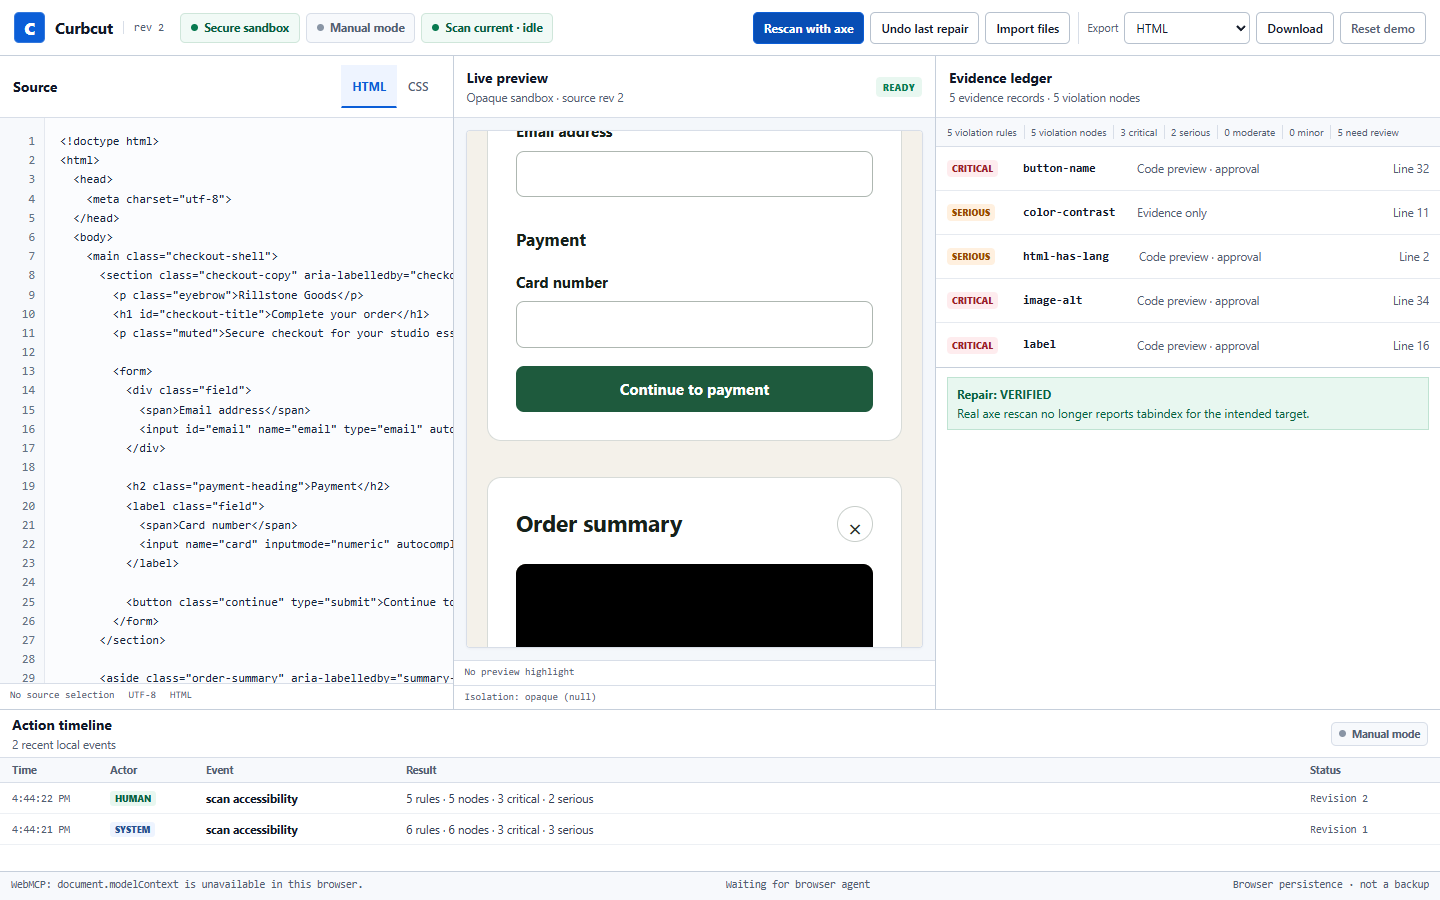
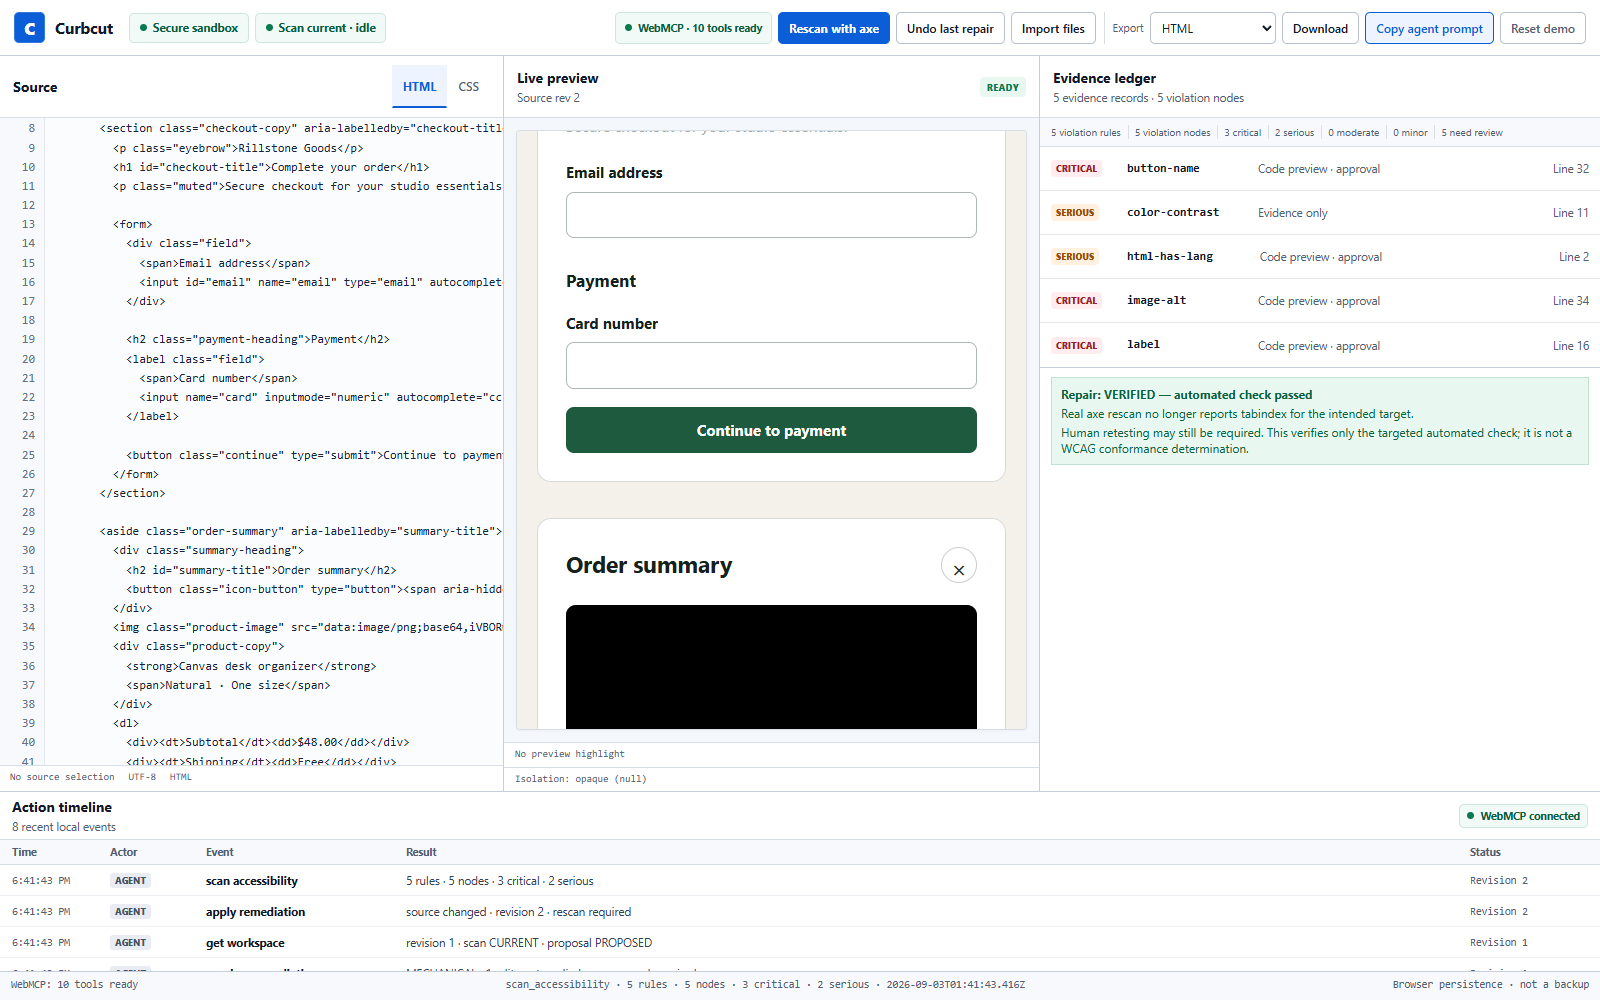
docs: refresh final release evidence

diff --git a/docs/SUBMISSION_DRAFT.md b/docs/SUBMISSION_DRAFT.md
@@ -1,6 +1,6 @@
 # Curbcut — Devpost submission draft
 
-Status: production release candidate verified; final screenshot recapture, owner video upload, and Devpost submission remain pending.
+Status: production release candidate and final screenshots verified; owner video upload and Devpost submission remain pending.
 
 ## Submission fields
 
@@ -8,7 +8,7 @@ Status: production release candidate verified; final screenshot recapture, owner
 
 **Tagline:** A browser-native accessibility repair workbench where a developer and browser agent safely repair the same live HTML/CSS artifact.
 
-**Live application:** <https://curbcut-one.vercel.app> — application commit `7a95ee9`, Vercel deployment `dpl_2S1fKA8yaBpWLnYjZaaYkuDZgf8Y`.
+**Live application:** <https://curbcut-one.vercel.app> — application commit `21838d8`, Vercel deployment `dpl_Ae3dg1396JPcP2nmygbNxNVPSnha`.
 
 **Public repository:** <https://github.com/nbobby07/curbcut>
 
@@ -62,27 +62,27 @@ Curbcut does not claim automated WCAG compliance. axe-core covers only part of a
 
 ### Evidence
 
-The frozen source gate passes 86/86 Vitest checks across nine files, 26/26 Playwright checks, and a validated WebMCP corpus of 36 trajectory cases across twelve intents and all ten tools. Coverage includes all five repair families, proposal-readiness and concurrent-mutation guards, reliable pristine-demo reset/persistence, the real offscreen mobile iframe/requestAnimationFrame scan regression and zero horizontal overflow, direct mechanical Apply, contextual approval, non-mutating rejection, the opaque-origin boundary, CSP/network/script isolation, parse5-to-DOM mapping, real axe scans, WebMCP registration and state effects, Apply/rescan, Undo/rescan, local import, canonical export, reload, a self-scan of Curbcut's own UI, and exact agreement between registered tool schemas and the eval snapshot.
+The frozen source gate passes 88/88 Vitest checks across ten files, 30/30 Playwright checks, and a validated WebMCP corpus of 36 trajectory cases across twelve intents and all ten tools. Coverage includes all five repair families, proposal-readiness and concurrent-mutation guards, reliable pristine-demo reset/persistence, honest scan/highlight failure states, exact source-range reveal and keyboard focus restoration, mobile/tablet/medium-width regressions, direct mechanical Apply, contextual approval, non-mutating rejection, the opaque-origin boundary, CSP/network/script isolation, parse5-to-DOM mapping, real axe scans, WebMCP registration and state effects, Apply/rescan, Undo/rescan, local import, canonical export, reload, a self-scan of Curbcut's own UI, and exact agreement between registered tool schemas and the eval snapshot.
 
 Native Chrome through Chrome DevTools MCP 1.8 passed the production ten-tool workflow, including reload rediscovery, with zero console errors. The Codex in-app browser independently passed the updated production scan, `impact:"high"` listing, and mapped inspect calls with source selection, preview highlight, timeline activity, and zero console errors on August 28, 2026. Production response headers passed for CSP, `Permissions-Policy: tools=(self)`, Origin-Agent-Cluster, no-referrer, nosniff, and HSTS. Impeccable review returned **SHIP** and the release code audit returned **CLEAR**.
 
 Curbcut is not keyed to its checkout fixture. A Playwright regression imports an unrelated local profile form and stylesheet, runs axe in the same opaque preview, and receives exactly the dynamic `label` and `tabindex` findings.
 
-The OpenAI `gpt-5.4-mini-2026-03-17` trajectory run produced **69/72 operationally correct trajectories with zero approval-boundary violations and zero infrastructure errors**. For full transparency, strict raw scoring was 214/253 passing rows (84.6%) and 59/72 exact trajectories; ten additional trajectories differed only by harmless bounded state or verification reads. The three genuine misses were two malformed copied issue IDs and one wrong rejection reason. The key was ephemeral and is not a runtime dependency. Full raw results and classifications are preserved in `docs/M7_REPORT.md`. Known non-blockers are the roughly 307.06 KB gzip Vite chunk warning (axe-core dominates) and scan-cap lower-bound semantics: capped results say `≥` and cannot falsely mark Apply or Undo verified.
+The OpenAI `gpt-5.4-mini-2026-03-17` trajectory run produced **69/72 operationally correct trajectories with zero approval-boundary violations and zero infrastructure errors**. For full transparency, strict raw scoring was 214/253 passing rows (84.6%) and 59/72 exact trajectories; ten additional trajectories differed only by harmless bounded state or verification reads. The three genuine misses were two malformed copied issue IDs and one wrong rejection reason. The key was ephemeral and is not a runtime dependency. Full raw results and classifications are preserved in `docs/M7_REPORT.md`. Known non-blockers are the roughly 307.74 KB gzip Vite chunk warning (axe-core dominates) and scan-cap lower-bound semantics: capped results say `≥` and cannot falsely mark Apply or Undo verified.
 
-## Screenshots — stale; recapture before submission
+## Production screenshots
 
-> **Do not submit these five images.** They were captured on August 28 before the final UI cleanup and are retained only as historical references. Recapture every state below from the frozen final deployment.
+Captured September 2 from the frozen final deployment.
 
-![Stale reference — scanned production workspace](./curbcut-scanned-workspace.png)
+![Scanned production workspace](./curbcut-scanned-workspace.png)
 
-![Stale reference — mechanical remediation preview](./curbcut-mechanical-preview.png)
+![Mechanical remediation preview](./curbcut-mechanical-preview.png)
 
-![Stale reference — verified mechanical repair](./curbcut-verified-mechanical.png)
+![Verified mechanical repair](./curbcut-verified-mechanical.png)
 
-![Stale reference — contextual remediation awaiting approval](./curbcut-remediation-preview.png)
+![Contextual remediation awaiting approval](./curbcut-remediation-preview.png)
 
-![Stale reference — responsive medium-width workspace](./curbcut-medium-workspace.png)
+![Responsive medium-width workspace](./curbcut-medium-workspace.png)
 
 ## Judge testing instructions
 
@@ -104,11 +104,11 @@ The OpenAI `gpt-5.4-mini-2026-03-17` trajectory run produced **69/72 operational
 - [ ] Verify the video and audio from a signed-out browser.
 - [ ] Show real tool discovery/calls, not a simulated invocation.
 - [ ] Show scan evidence, synchronized source/preview focus, direct mechanical Apply, contextual visible approval, rescan, semantic review, and summary/export or Undo.
-- [ ] Recapture the scanned workspace from the frozen final deployment.
-- [ ] Recapture the mechanical diff and `RENDERING → READY → Apply` state from the frozen final deployment.
-- [ ] Recapture the contextual proposed diff/render/approval state from the frozen final deployment.
-- [ ] Recapture a distinct verified-result/timeline image from the frozen final deployment.
-- [ ] Recapture the responsive medium-width workspace from the frozen final deployment.
+- [x] Recapture the scanned workspace from the frozen final deployment.
+- [x] Recapture the mechanical diff and `READY → Apply` state from the frozen final deployment.
+- [x] Recapture the contextual proposed diff/render/approval state from the frozen final deployment.
+- [x] Recapture a distinct verified-result/timeline image from the frozen final deployment.
+- [x] Recapture the responsive medium-width workspace from the frozen final deployment.
 - [ ] Use narration only or properly licensed audio; do not add third-party trademarks or copyrighted music.
 
 ## Owner task — practitioner review (not submission evidence until completed)
@@ -124,8 +124,8 @@ The OpenAI `gpt-5.4-mini-2026-03-17` trajectory run produced **69/72 operational
 - [ ] Join/registration status is confirmed in the submitting Devpost account.
 - [x] Frozen current-source build is live in a clean target-client session and remains available without payment or credentials.
 - [x] GitHub repository is public; root license is detected; About description and homepage are set.
-- [x] `npm test` (86/86), all 26 Playwright checks, `npm run build`, and the measured 72-run OpenAI WebMCP corpus are complete with documented results.
+- [x] `npm test` (88/88), all 30 Playwright checks, `npm run build`, and the measured 72-run OpenAI WebMCP corpus are complete with documented results.
 - [ ] Final client, prompt, limitations, and measured evidence agree across README, reports, video, and Devpost text after the video is recorded.
-- [ ] Every public screenshot and the final video depict the frozen deployment; both screenshots and video remain pending.
+- [ ] Every public screenshot and the final video depict the frozen deployment; screenshots pass, video remains pending.
 - [ ] All URLs work from a signed-out browser.
 - [ ] Submit before September 3, 2026 at 1:00 PM PT; use deadline morning only as recovery buffer.

diff --git a/docs/IMPLEMENTATION_PLAN.md b/docs/IMPLEMENTATION_PLAN.md
@@ -1,8 +1,8 @@
 # Curbcut — Implementation Plan
 
-Status: M1–M7 and the M8 production release gate are complete; final screenshot recapture, owner video, and Devpost submission remain pending
+Status: M1–M7, the M8 production release gate, and final screenshots are complete; owner video and Devpost submission remain pending
 Baseline: the successful Spike A and Spike B code in this repository  
-Target: application commit `7a95ee9` deployed and verified at <https://curbcut-one.vercel.app>; submit before September 3, 2026 at 1:00 PM PT
+Target: application commit `21838d8` deployed and verified at <https://curbcut-one.vercel.app>; submit before September 3, 2026 at 1:00 PM PT
 
 ## 1. Technical baseline and governing references
 
@@ -859,7 +859,7 @@ Acceptance:
 - no unapproved contextual Apply or invented semantic value observed;
 - fixture results stay exact.
 
-Recorded release evidence: 36 deterministic trajectory cases across twelve intents and ten tools, 86/86 passing Vitest checks across nine files, 26/26 passing Playwright checks, and a 72-run OpenAI model evaluation with 214/253 strict passing rows, 59/72 exact trajectories, 69/72 operationally correct trajectories, and zero errors. Browser coverage includes reliable pristine-demo reset/persistence, the real offscreen mobile iframe/requestAnimationFrame scan regression, zero horizontal overflow, all five families, authority and proposal-readiness gates, isolation, mapping, export, reload, judge-prompt copy, persistent WebMCP readiness, and schema drift.
+Recorded release evidence: 36 deterministic trajectory cases across twelve intents and ten tools, 88/88 passing Vitest checks across ten files, 30/30 passing Playwright checks, and a 72-run OpenAI model evaluation with 214/253 strict passing rows, 59/72 exact trajectories, 69/72 operationally correct trajectories, and zero errors. Browser coverage includes reliable pristine-demo reset/persistence, scan/highlight failure-state integrity, exact source-range reveal and focus restoration, mobile/tablet/medium-width regressions, all five families, authority and proposal-readiness gates, isolation, mapping, export, reload, judge-prompt copy, persistent WebMCP readiness, and schema drift.
 
 Fallback/cut: reduce paraphrase count only after covering every intent once. Never cut security, fixture, undo, contextual approval, or primary workflow gates.
 
@@ -867,10 +867,10 @@ Fallback/cut: reduce paraphrase count only after covering every intent once. Nev
 
 Tasks:
 
-- [x] Deploy application commit `7a95ee9` with Vercel CLI 59.11.1 as `dpl_2S1fKA8yaBpWLnYjZaaYkuDZgf8Y`.
+- [x] Deploy application commit `21838d8` with Vercel CLI 59.11.1 as `dpl_Ae3dg1396JPcP2nmygbNxNVPSnha`.
 - [x] Verify the public URL, reload rediscovery, production security headers, tool discovery, and the complete native-Chrome ten-tool workflow.
 - [x] Verify production scan/list/inspect source selection and preview highlighting in the Codex in-app browser, with zero console errors.
-- [ ] Recapture final production workflow screenshots after UI cleanup; the five August 28 images are stale references only.
+- [x] Recapture five final production workflow screenshots from the frozen September 2 deployment.
 - [ ] Record and upload the under-three-minute narrated video.
 - [ ] Submit the final Devpost entry.
 
@@ -878,7 +878,7 @@ Acceptance:
 
 - [x] Clean-session deployed native-Chrome demo completes all ten tools, including Apply/rescan, Undo/rescan, export, reload, and zero console errors.
 - [x] The frozen current-source deployment is authenticated, persistent, and publicly available at <https://curbcut-one.vercel.app>.
-- [ ] Exact URL, clients, prompt, limitations, final screenshots, and verification evidence agree; final screenshot recapture remains pending.
+- [x] Exact URL, clients, prompt, limitations, final screenshots, and verification evidence agree.
 - [ ] Video/storyboard is under three minutes and first proposal appears by 15 seconds.
 
 Fallback/cut: September 2 is feature freeze. Cut nice-to-haves and incomplete families; do not add infrastructure. September 3 morning is submission/recovery buffer only.
@@ -929,4 +929,4 @@ Immediate no-go conditions during release verification:
 
 Recommendation: the production release gate is complete. **PROCEED TO SUBMISSION without adding product scope.** The OpenAI model-backed eval is complete with 214/253 strict passing rows (84.6%), 59/72 exact trajectories, 69/72 operationally correct trajectories, three genuine argument misses, and zero errors. Remaining work is owner-only: record/host the under-three-minute video and submit Devpost.
 
-Known non-blockers: the Vite production build reports a roughly 307.06 KB gzip chunk because axe-core dominates the bundle; scan security caps expose lower-bound counts and produce inconclusive verification rather than a false pass. Impeccable review returned **SHIP** and the release code audit returned **CLEAR**.
+Known non-blockers: the Vite production build reports a roughly 307.74 KB gzip chunk because axe-core dominates the bundle; scan security caps expose lower-bound counts and produce inconclusive verification rather than a false pass. Impeccable review returned **SHIP** and the release code audit returned **CLEAR**.

diff --git a/README.md b/README.md
@@ -2,7 +2,7 @@
 
 [Live production release candidate](https://curbcut-one.vercel.app) · [Source code](https://github.com/nbobby07/curbcut) · [MIT license](./LICENSE)
 
-Release status: application commit `7a95ee9` is deployed and verified at the public URL as Vercel deployment `dpl_2S1fKA8yaBpWLnYjZaaYkuDZgf8Y`. Automated, OpenAI model-backed, and target-client release gates are recorded. The remaining owner tasks are final screenshot recapture, the narrated video, and Devpost submission.
+Release status: application commit `21838d8` is deployed and verified at the public URL as Vercel deployment `dpl_Ae3dg1396JPcP2nmygbNxNVPSnha`. Automated, OpenAI model-backed, target-client, and production-screenshot release gates are recorded. The remaining owner tasks are the narrated video and Devpost submission.
 
 Curbcut is a local-first, browser-native accessibility repair workbench for editable static HTML and CSS. A frontend developer and an external browser agent inspect and repair the same live artifact through WebMCP: the agent may apply exact mechanical patches after showing them, while the developer retains semantic and visual judgment.
 
@@ -121,9 +121,9 @@ npm run test:e2e
 npm run build
 ```
 
-Release verification passed with 86/86 Vitest checks across nine files, 26/26 Playwright checks, a production Vite build, and a validated WebMCP corpus of 36 cases across twelve intents and all ten tools. The OpenAI `gpt-5.4-mini-2026-03-17` run produced 69/72 operationally correct trajectories with zero approval-boundary violations and zero infrastructure errors. For full transparency, strict raw scoring was 214/253 passing rows (84.6%) and 59/72 exact trajectories; the three genuine misses were two malformed copied issue IDs and one wrong rejection reason. Native Chrome completed the production ten-tool workflow—including proposal readiness, mechanical Apply/rescan, contextual rejection, export, Undo/rescan, reload rediscovery, and zero console errors. The Codex in-app browser independently passed production discovery of all ten tools, a fresh scan/list/inspect journey, exact source mapping, real iframe highlight, timeline activity, and zero console errors. Production response headers passed for CSP, `Permissions-Policy: tools=(self)`, Origin-Agent-Cluster, no-referrer, nosniff, and HSTS. See the [M7 release report](./docs/M7_REPORT.md) and [August 27 M4–M6 verification](./docs/M4_REPORT.md).
+Release verification passed with 88/88 Vitest checks across ten files, 30/30 Playwright checks, a production Vite build, and a validated WebMCP corpus of 36 cases across twelve intents and all ten tools. The OpenAI `gpt-5.4-mini-2026-03-17` run produced 69/72 operationally correct trajectories with zero approval-boundary violations and zero infrastructure errors. For full transparency, strict raw scoring was 214/253 passing rows (84.6%) and 59/72 exact trajectories; the three genuine misses were two malformed copied issue IDs and one wrong rejection reason. Native Chrome completed the production ten-tool workflow—including proposal readiness, mechanical Apply/rescan, contextual rejection, export, Undo/rescan, reload rediscovery, and zero console errors. The Codex in-app browser independently passed production discovery of all ten tools, a fresh scan/list/inspect journey, exact source mapping, real iframe highlight, timeline activity, and zero console errors. Production response headers passed for CSP, `Permissions-Policy: tools=(self)`, Origin-Agent-Cluster, no-referrer, nosniff, and HSTS. See the [M7 release report](./docs/M7_REPORT.md) and [August 27 M4–M6 verification](./docs/M4_REPORT.md).
 
-The deterministic browser/schema suites and measured OpenAI trajectory run are complementary release evidence; model evals do not replace live UI verification. The API key was ephemeral and is not a runtime dependency. The production build retains a non-blocking Vite chunk warning at about 307.06 KB gzip because axe-core dominates the bundle. Bounded scan responses explicitly report truncation and lower-bound (`≥`) counts when security caps are reached, so a capped result cannot falsely claim verification.
+The deterministic browser/schema suites and measured OpenAI trajectory run are complementary release evidence; model evals do not replace live UI verification. The API key was ephemeral and is not a runtime dependency. The production build retains a non-blocking Vite chunk warning at about 307.74 KB gzip because axe-core dominates the bundle. Bounded scan responses explicitly report truncation and lower-bound (`≥`) counts when security caps are reached, so a capped result cannot falsely claim verification.
 
 ## Current limitations
 

diff --git a/docs/PRODUCT_REQUIREMENTS.md b/docs/PRODUCT_REQUIREMENTS.md
@@ -1,6 +1,6 @@
 # Curbcut — Product Requirements
 
-Status: MVP implementation, production freeze, and target-client verification complete; final screenshot recapture, owner video, and Devpost submission remain pending
+Status: MVP implementation, production freeze, target-client verification, and final screenshots complete; owner video and Devpost submission remain pending
 Planning date: August 26, 2026  
 Hackathon deadline: September 3, 2026 at 1:00 PM PT
 
@@ -25,7 +25,7 @@ The product extends, rather than replaces, the successful spike architecture:
 - Replace the spike's same-origin iframe with an opaque-origin sandbox and a validated `postMessage` bridge.
 - Register a stable tool set once. The spike observed a transient tool-list update during sequential registration, so the MVP will not dynamically add and remove tools as state changes.
 - Connect WebMCP to the real product architecture early: by the end of M2, `scan_accessibility`, `list_issues`, and `inspect_issue` must operate the real sandbox, axe results, React store, source map, source selection, and preview highlight. The complete ten-tool workflow remains M4 scope.
-- Maintain a persistent authenticated Vercel deployment from M1/M2 onward. The final application commit, `7a95ee9`, was built, deployed, and verified at <https://curbcut-one.vercel.app> as Vercel deployment `dpl_2S1fKA8yaBpWLnYjZaaYkuDZgf8Y`.
+- Maintain a persistent authenticated Vercel deployment from M1/M2 onward. The final application commit, `21838d8`, was built, deployed, and verified at <https://curbcut-one.vercel.app> as Vercel deployment `dpl_Ae3dg1396JPcP2nmygbNxNVPSnha`.
 
 ## 2. Audience and job to be done
 
@@ -573,6 +573,6 @@ The MVP is done only when a fresh deployed session can:
 11. complete the primary multi-tool browser-agent prompt on the supported client;
 12. keep Curbcut itself keyboard-usable and free of known critical/serious axe violations.
 
-Release evidence recorded August 28, 2026: 85/85 Vitest checks across eight files, 25/25 Playwright checks, 36 validated WebMCP trajectory cases across twelve intents and ten tools, a 72-run OpenAI model evaluation with 214/253 strict passing rows (84.6%), 59/72 exact trajectories, 69/72 operationally correct trajectories, and zero infrastructure errors, a complete native-Chrome production ten-tool journey with reload rediscovery and zero console errors, and a Codex in-app browser production scan/high-impact-list/inspect journey with exact source mapping, preview highlight, timeline activity, and zero console errors. Production CSP, `Permissions-Policy: tools=(self)`, Origin-Agent-Cluster, no-referrer, nosniff, and HSTS headers also passed. The Impeccable visual reviewer returned **SHIP** and the release code audit returned **CLEAR**.
+Final release evidence recorded September 2, 2026: 88/88 Vitest checks across ten files, 30/30 Playwright checks, 36 validated WebMCP trajectory cases across twelve intents and ten tools, a 72-run OpenAI model evaluation with 214/253 strict passing rows (84.6%), 59/72 exact trajectories, 69/72 operationally correct trajectories, and zero infrastructure errors, a complete native-Chrome production ten-tool journey with reload rediscovery and zero console errors, and a Codex in-app browser production scan/high-impact-list/inspect journey with exact source mapping, preview highlight, timeline activity, and zero console errors. Production CSP, `Permissions-Policy: tools=(self)`, Origin-Agent-Cluster, no-referrer, nosniff, and HSTS headers also passed. The Impeccable visual reviewer returned **SHIP** and the release code audit returned **CLEAR**.
 
-The model eval's three genuine misses were two malformed copied issue IDs and one wrong rejection reason; no approval boundary was bypassed. OpenAI remains an evaluation-only dependency and the key was never stored. Known non-blockers are the Vite bundle warning (about 307.06 KB gzip, dominated by axe-core) and bounded scan responses: when a security cap is reached, counts are explicitly lower bounds and verification is reported as inconclusive rather than as a false pass.
+The model eval's three genuine misses were two malformed copied issue IDs and one wrong rejection reason; no approval boundary was bypassed. OpenAI remains an evaluation-only dependency and the key was never stored. Known non-blockers are the Vite bundle warning (about 307.74 KB gzip, dominated by axe-core) and bounded scan responses: when a security cap is reached, counts are explicitly lower bounds and verification is reported as inconclusive rather than as a false pass.
